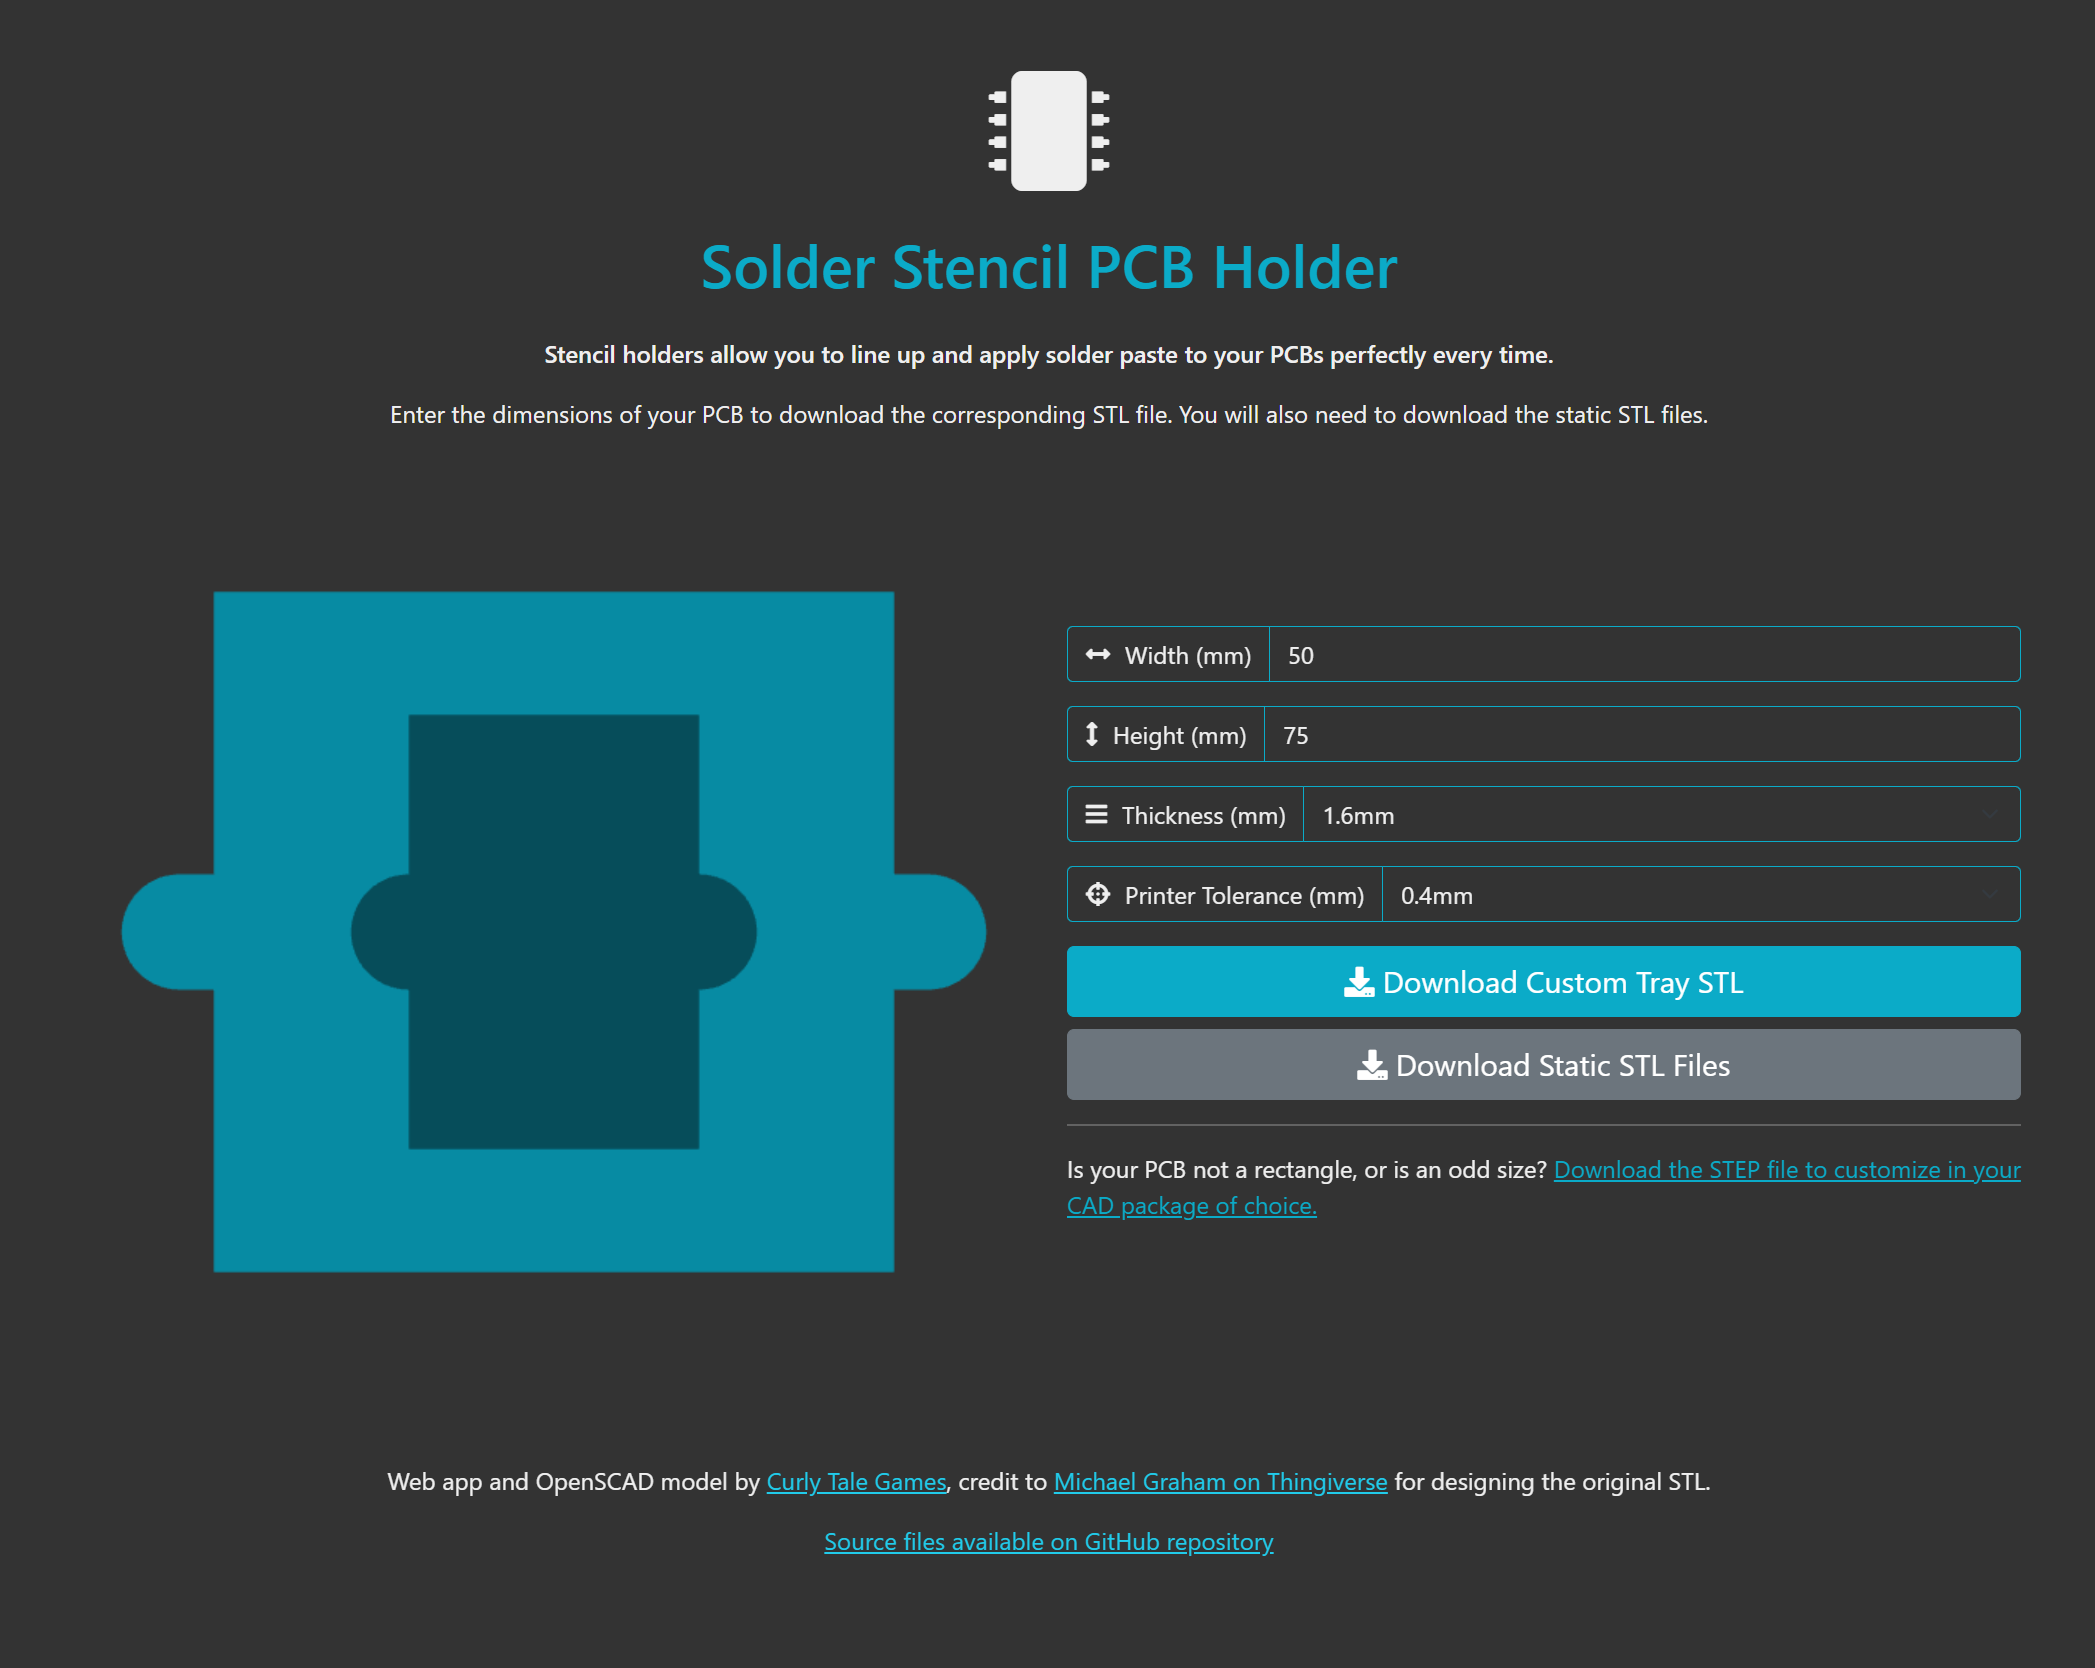
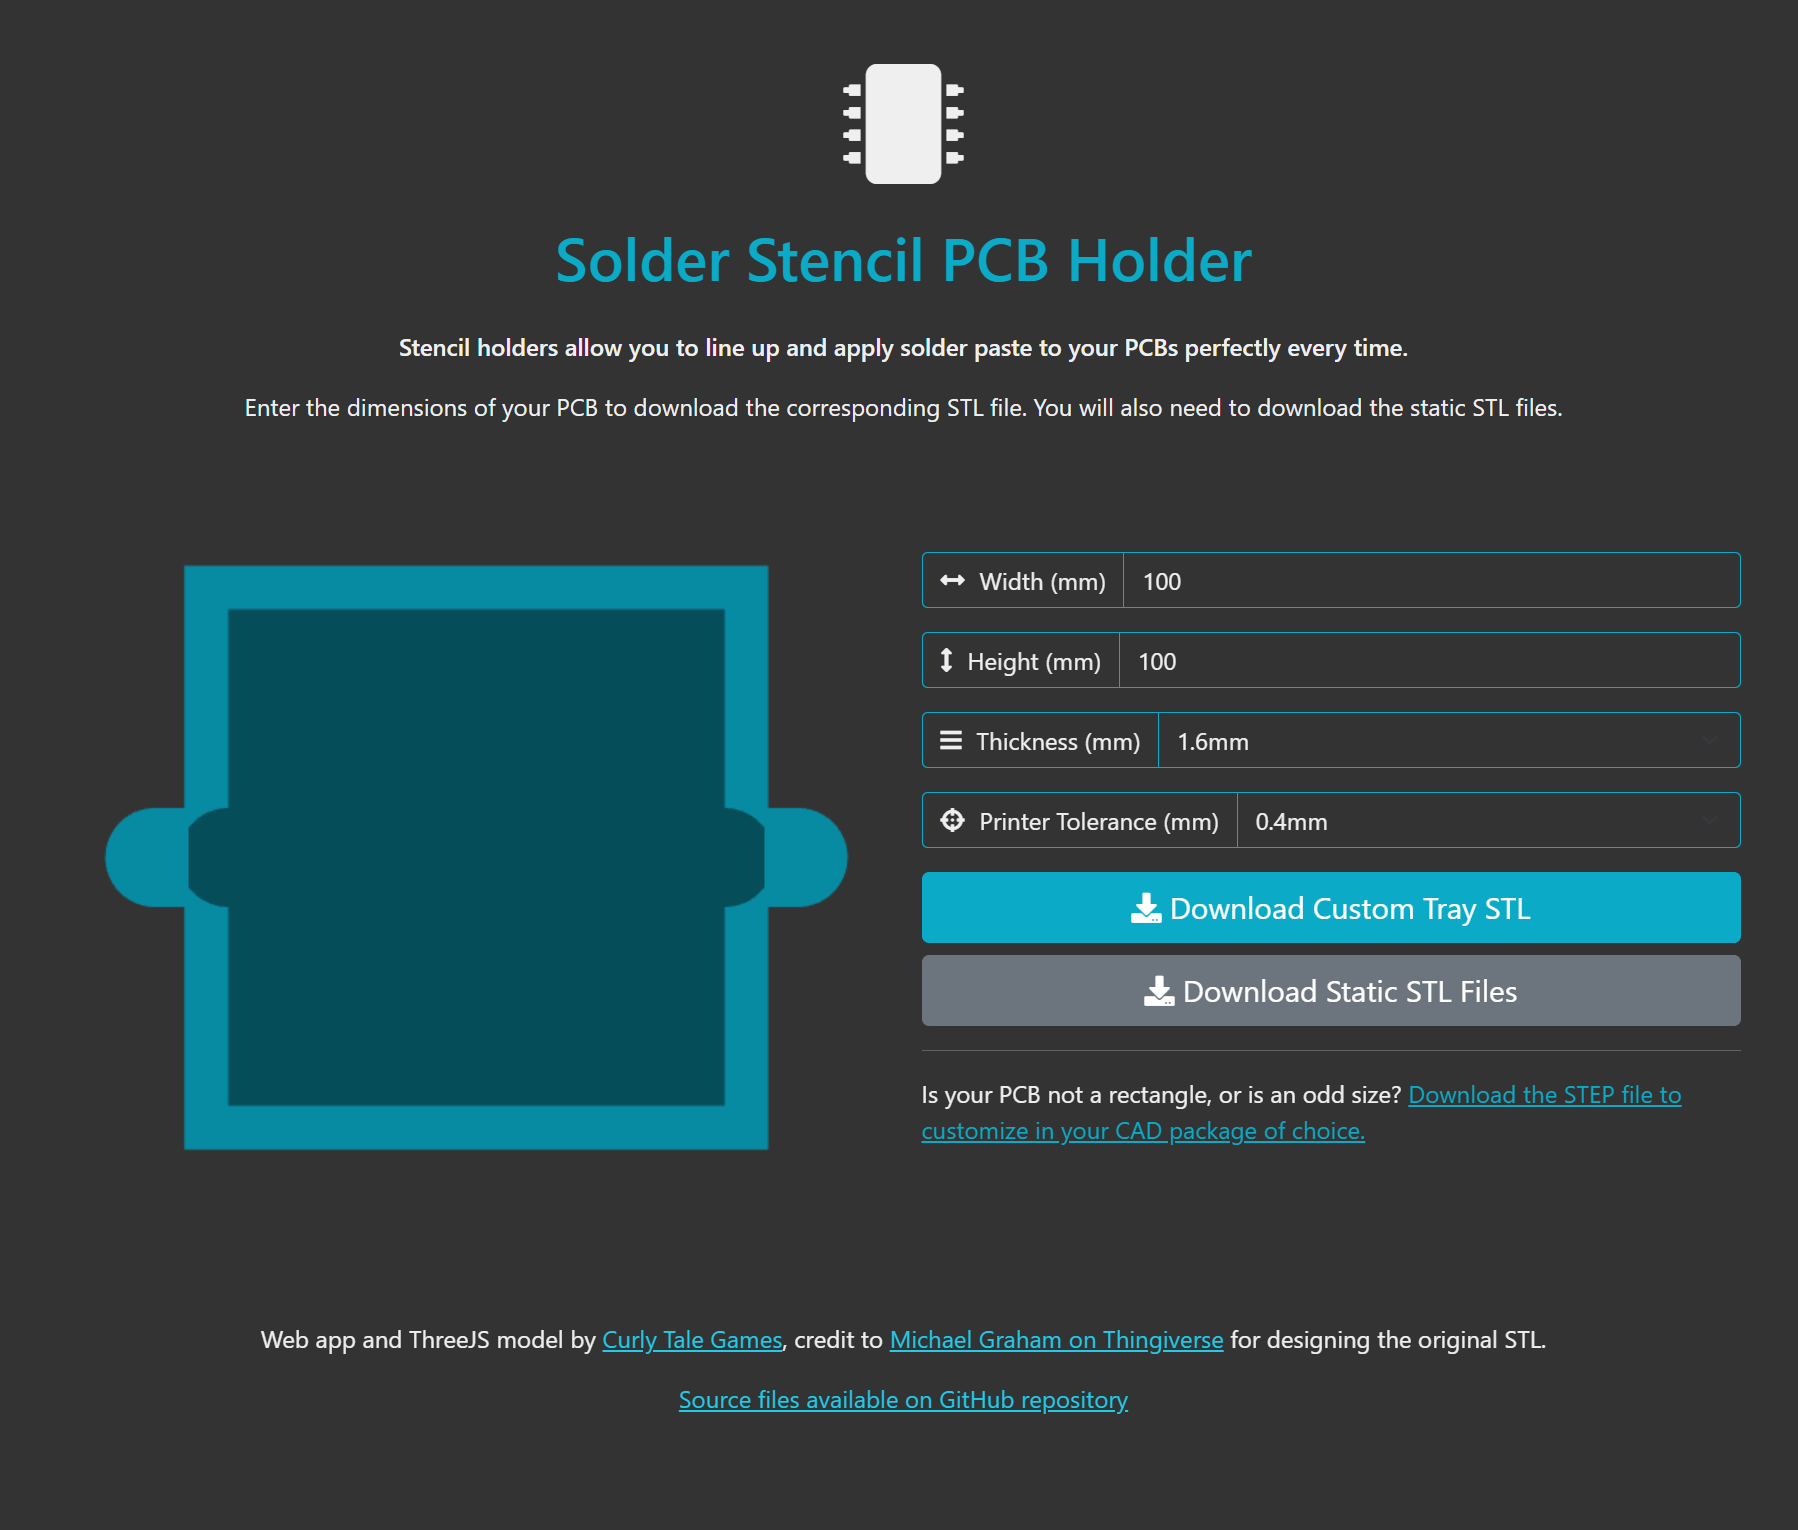
removed mention of OpenSCAD

diff --git a/index.html b/index.html
@@ -164,7 +164,7 @@
 		 <!-- Credits Line -->
         <div class="row">
             <div class="col-12 credits">
-                <p>Web app and OpenSCAD model by <a href="https://curlytalegames.com/" target="_blank">Curly Tale Games</a>, credit to <a href="https://www.thingiverse.com/thing:6313798" target="_blank">Michael Graham on Thingiverse</a> for designing the original STL.</p>
+                <p>Web app and ThreeJS model by <a href="https://curlytalegames.com/" target="_blank">Curly Tale Games</a>, credit to <a href="https://www.thingiverse.com/thing:6313798" target="_blank">Michael Graham on Thingiverse</a> for designing the original STL.</p>
 				<p><a href="https://github.com/CurlyTaleGamesLLC/SolderStencilPCBHolder">Source files available on GitHub repository<a></p>
             </div>
         </div>
